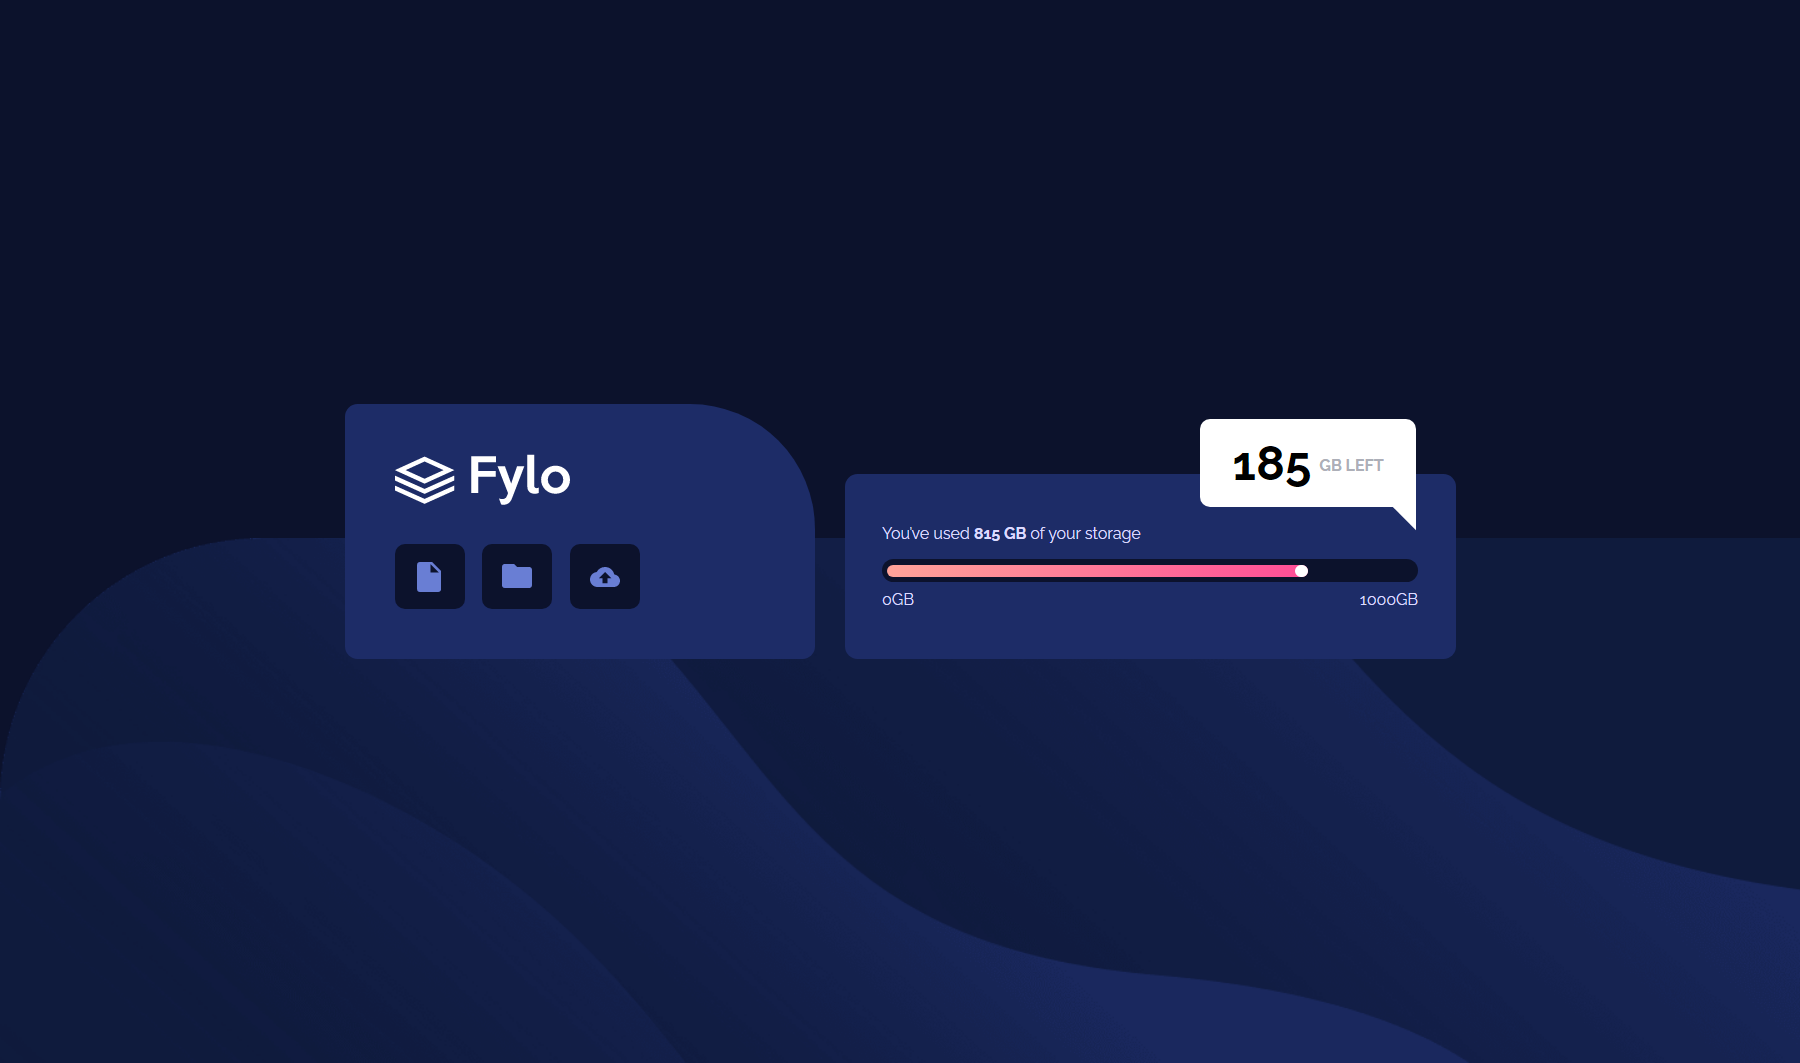
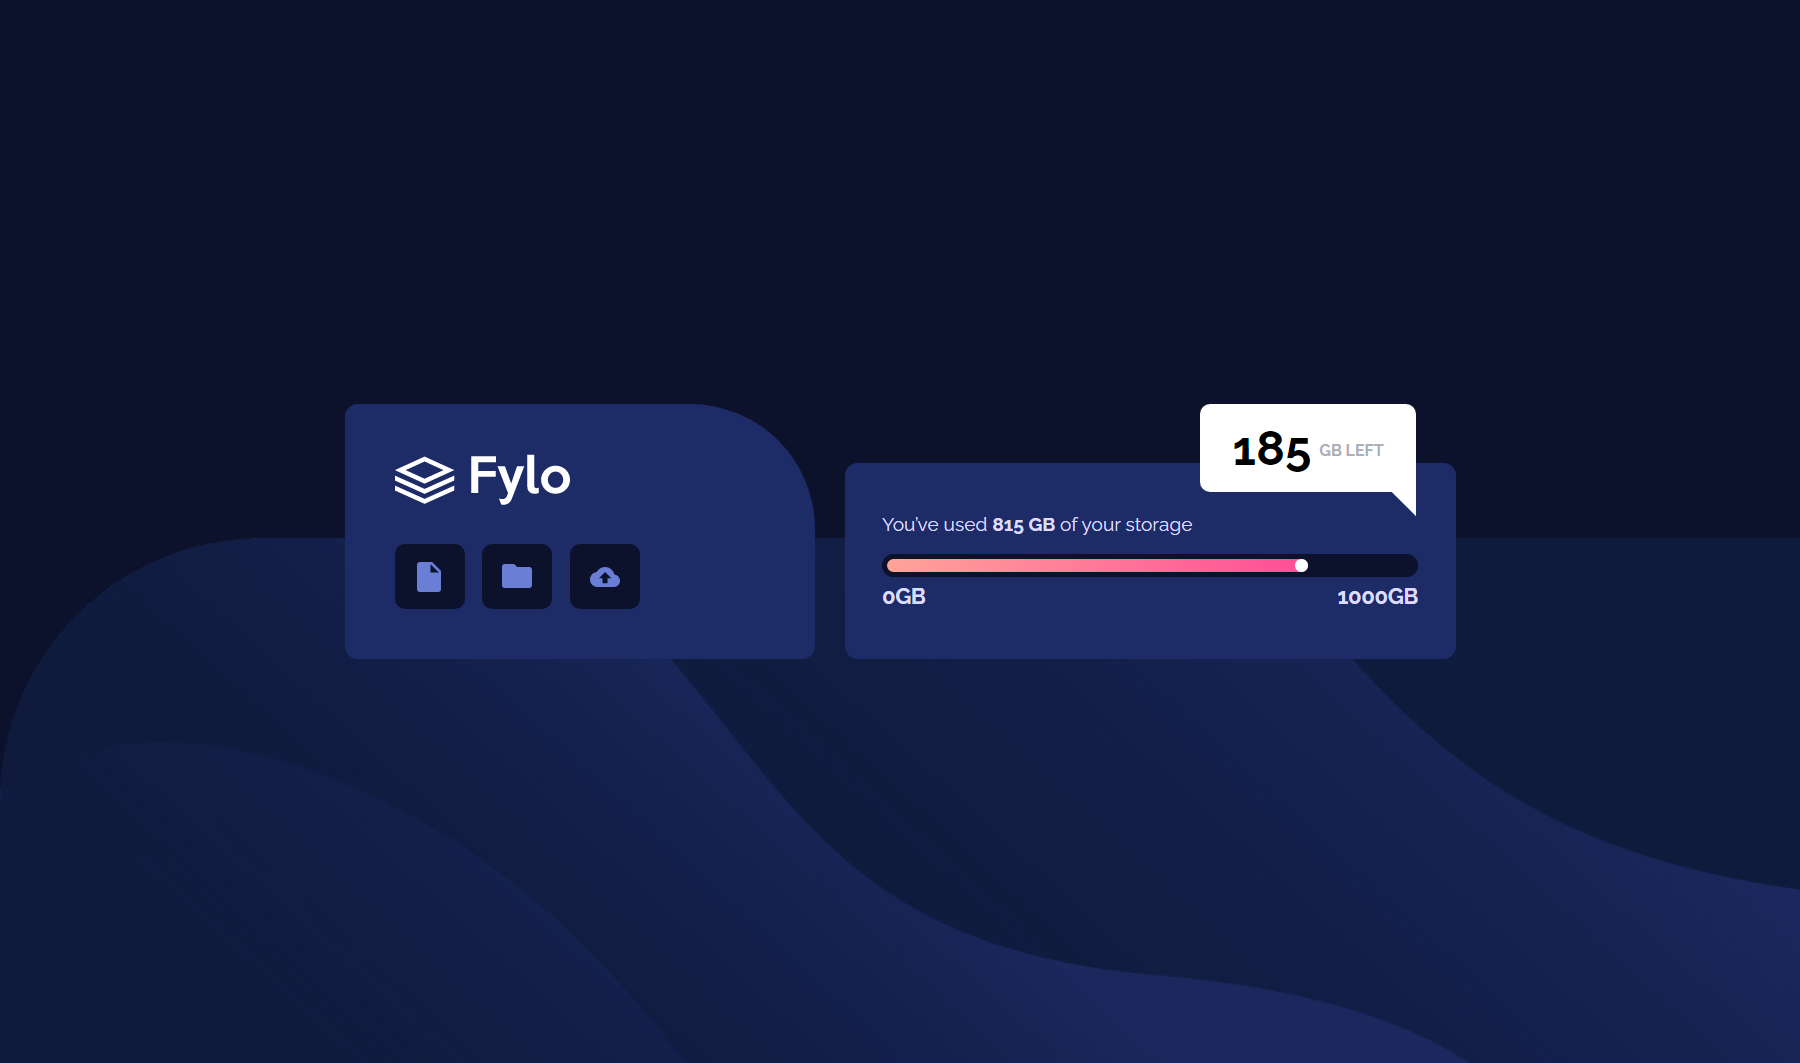
Add files via upload

Changed region(s): [[0.4667, 0.3725, 0.8089, 0.5898]]

diff --git a/scss/style.scss b/scss/style.scss
@@ -55,6 +55,7 @@ body{
 }
 .desc{
     color: $paleblue;
+    font-size: 1.2em;
     font-weight: 400;
     margin-bottom: 1em;
 
@@ -86,6 +87,7 @@ body{
 }
 .info{
     color: $paleblue;
+    font-size: 0.9em;
     display: flex;
     justify-content: space-between;
     margin-top: 0.5em;
@@ -114,6 +116,7 @@ body{
     }
     &__left{
         color: $grayishblue;
+        font-size: 1em;
         font-weight: 700;
         margin-top: 0.3em;
     }
@@ -151,9 +154,12 @@ body{
     .card-2{
         padding: 40px 30px 50px;
     }
+    .desc{
+        text-align: center;
+    }
     .float{
-        left: 60%;
         top: 75%;
+        left: 60%;
         transform: translateX(-60%);
 
         &__text{
@@ -171,7 +177,7 @@ body{
 // mobile
 @media screen and (max-width: 468px){
     body{
-        font-size: 15px;
+        font-size: 12px;
     }
     .container{
         padding: 0 1em;
@@ -179,14 +185,21 @@ body{
     .card-1{
         padding: 30px 100px 30px 30px;
     }
-    .desc{
-        text-align: center;
+    .float{
+        top: 80%;
+        left: 70%;
+        transform: translateX(-70%);
+
+        &__size{
+            font-size: 3em;
+            font-weight: 700;
+        }
     }
 }
 // screens below 375px
 @media screen and (max-width: 350px){
     body{
-        font-size: 12px;
+        font-size: 10px;
     }
     .logo{
         width: 120px;
@@ -197,5 +210,11 @@ body{
     .card-2{
         padding: 20px 20px 40px;
     }
+    .float{
+        top: 80%;
+        left: 75%;
+        transform: translateX(-75%);
+    }
+
 }
 // practise

diff --git a/css/style.css b/css/style.css
@@ -83,6 +83,7 @@ body {
 
 .desc {
   color: #dddbff;
+  font-size: 1.2em;
   font-weight: 400;
   margin-bottom: 1em;
 }
@@ -124,6 +125,7 @@ body {
 
 .info {
   color: #dddbff;
+  font-size: 0.9em;
   display: -webkit-box;
   display: -ms-flexbox;
   display: flex;
@@ -171,6 +173,7 @@ body {
 
 .float__left {
   color: #adafb8;
+  font-size: 1em;
   font-weight: 700;
   margin-top: 0.3em;
 }
@@ -209,9 +212,12 @@ body {
   .card-2 {
     padding: 40px 30px 50px;
   }
+  .desc {
+    text-align: center;
+  }
   .float {
-    left: 60%;
     top: 75%;
+    left: 60%;
     -webkit-transform: translateX(-60%);
             transform: translateX(-60%);
   }
@@ -225,7 +231,7 @@ body {
 
 @media screen and (max-width: 468px) {
   body {
-    font-size: 15px;
+    font-size: 12px;
   }
   .container {
     padding: 0 1em;
@@ -233,14 +239,21 @@ body {
   .card-1 {
     padding: 30px 100px 30px 30px;
   }
-  .desc {
-    text-align: center;
+  .float {
+    top: 80%;
+    left: 70%;
+    -webkit-transform: translateX(-70%);
+            transform: translateX(-70%);
+  }
+  .float__size {
+    font-size: 3em;
+    font-weight: 700;
   }
 }
 
 @media screen and (max-width: 350px) {
   body {
-    font-size: 12px;
+    font-size: 10px;
   }
   .logo {
     width: 120px;
@@ -250,6 +263,12 @@ body {
   }
   .card-2 {
     padding: 20px 20px 40px;
+  }
+  .float {
+    top: 80%;
+    left: 75%;
+    -webkit-transform: translateX(-75%);
+            transform: translateX(-75%);
   }
 }
 /*# sourceMappingURL=style.css.map */
